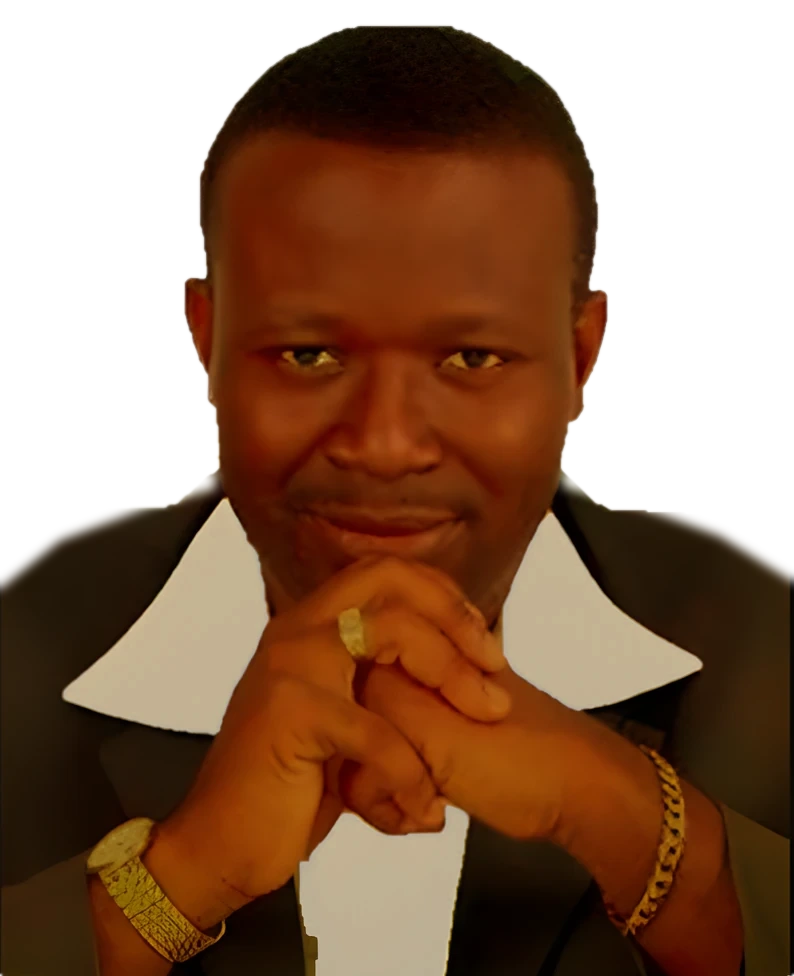
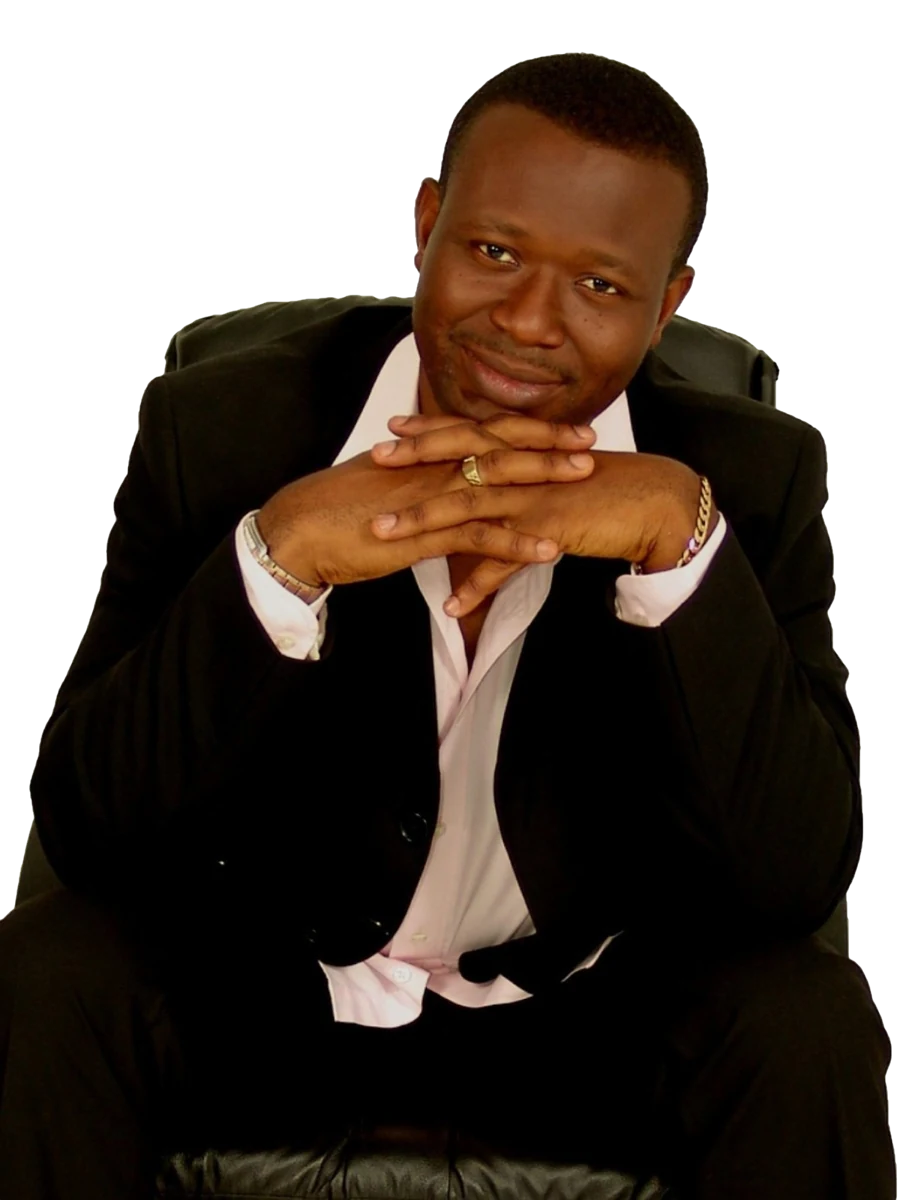
Story and welcome: new close-up portrait; '30+ years' wording
Claude-Session: https://claude.ai/code/session_01B9YkQRDeQEmEXedvwh4iPi

diff --git a/index.html b/index.html
@@ -26,7 +26,7 @@
 <body class="page-home">
 <a class="skip" href="#main">Skip to content</a>
 <div class="welcome" id="welcome" role="dialog" aria-modal="true" aria-label="Welcome">
-  <div class="welcome__photo"><img src="images/jide-portrait.webp" alt="Jide Arowolo" width="794" height="976"></div>
+  <div class="welcome__photo"><img src="images/jide-portrait.webp" alt="Jide Arowolo" width="900" height="1200"></div>
   <div class="welcome__inner">
     <svg viewBox="0 0 240 240" class="welcome__mark" aria-hidden="true" focusable="false"><defs><linearGradient id="gwel" x1="0" y1="0" x2="1" y2="1"><stop offset="0" stop-color="#f1dba0"/><stop offset=".55" stop-color="#c9a24b"/><stop offset="1" stop-color="#a8832f"/></linearGradient></defs><g class="logo-ring"><line x1="120.00" y1="34.00" x2="120.00" y2="20.50" stroke="#d6b45f" stroke-width="3.2" stroke-linecap="round"/><line x1="136.78" y1="35.65" x2="140.08" y2="19.06" stroke="#d6b45f" stroke-width="3.2" stroke-linecap="round"/><line x1="152.91" y1="40.55" x2="160.16" y2="23.06" stroke="#d6b45f" stroke-width="3.2" stroke-linecap="round"/><line x1="167.78" y1="48.49" x2="178.41" y2="32.58" stroke="#d6b45f" stroke-width="3.2" stroke-linecap="round"/><line x1="180.81" y1="59.19" x2="193.41" y2="46.59" stroke="#d6b45f" stroke-width="3.2" stroke-linecap="round"/><line x1="191.51" y1="72.22" x2="204.62" y2="63.46" stroke="#d6b45f" stroke-width="3.2" stroke-linecap="round"/><line x1="199.45" y1="87.09" x2="212.36" y2="81.74" stroke="#d6b45f" stroke-width="3.2" stroke-linecap="round"/><line x1="204.35" y1="103.22" x2="217.93" y2="100.52" stroke="#d6b45f" stroke-width="3.2" stroke-linecap="round"/><line x1="206.00" y1="120.00" x2="219.54" y2="120.00" stroke="#d6b45f" stroke-width="3.2" stroke-linecap="round"/><line x1="204.35" y1="136.78" x2="218.82" y2="139.66" stroke="#d6b45f" stroke-width="3.2" stroke-linecap="round"/><line x1="199.45" y1="152.91" x2="214.22" y2="159.03" stroke="#d6b45f" stroke-width="3.2" stroke-linecap="round"/><line x1="191.51" y1="167.78" x2="205.10" y2="176.86" stroke="#d6b45f" stroke-width="3.2" stroke-linecap="round"/><line x1="180.81" y1="180.81" x2="191.65" y2="191.65" stroke="#d6b45f" stroke-width="3.2" stroke-linecap="round"/><line x1="167.78" y1="191.51" x2="175.59" y2="203.20" stroke="#d6b45f" stroke-width="3.2" stroke-linecap="round"/><line x1="152.91" y1="199.45" x2="159.48" y2="215.32" stroke="#d6b45f" stroke-width="3.2" stroke-linecap="round"/><line x1="136.78" y1="204.35" x2="140.67" y2="223.92" stroke="#d6b45f" stroke-width="3.2" stroke-linecap="round"/><line x1="120.00" y1="206.00" x2="120.00" y2="227.38" stroke="#d6b45f" stroke-width="3.2" stroke-linecap="round"/><line x1="103.22" y1="204.35" x2="99.17" y2="224.73" stroke="#d6b45f" stroke-width="3.2" stroke-linecap="round"/><line x1="87.09" y1="199.45" x2="80.12" y2="216.27" stroke="#d6b45f" stroke-width="3.2" stroke-linecap="round"/><line x1="72.22" y1="191.51" x2="64.26" y2="203.42" stroke="#d6b45f" stroke-width="3.2" stroke-linecap="round"/><line x1="59.19" y1="180.81" x2="47.39" y2="192.61" stroke="#d6b45f" stroke-width="3.2" stroke-linecap="round"/><line x1="48.49" y1="167.78" x2="32.14" y2="178.71" stroke="#d6b45f" stroke-width="3.2" stroke-linecap="round"/><line x1="40.55" y1="152.91" x2="21.31" y2="160.88" stroke="#d6b45f" stroke-width="3.2" stroke-linecap="round"/><line x1="35.65" y1="136.78" x2="16.04" y2="140.68" stroke="#d6b45f" stroke-width="3.2" stroke-linecap="round"/><line x1="34.00" y1="120.00" x2="16.28" y2="120.00" stroke="#d6b45f" stroke-width="3.2" stroke-linecap="round"/><line x1="35.65" y1="103.22" x2="20.98" y2="100.30" stroke="#d6b45f" stroke-width="3.2" stroke-linecap="round"/><line x1="40.55" y1="87.09" x2="27.36" y2="81.63" stroke="#d6b45f" stroke-width="3.2" stroke-linecap="round"/><line x1="48.49" y1="72.22" x2="35.79" y2="63.73" stroke="#d6b45f" stroke-width="3.2" stroke-linecap="round"/><line x1="59.19" y1="59.19" x2="48.60" y2="48.60" stroke="#d6b45f" stroke-width="3.2" stroke-linecap="round"/><line x1="72.22" y1="48.49" x2="64.52" y2="36.97" stroke="#d6b45f" stroke-width="3.2" stroke-linecap="round"/><line x1="87.09" y1="40.55" x2="81.64" y2="27.39" stroke="#d6b45f" stroke-width="3.2" stroke-linecap="round"/><line x1="103.22" y1="35.65" x2="100.39" y2="21.43" stroke="#d6b45f" stroke-width="3.2" stroke-linecap="round"/><circle cx="120" cy="120" r="78" fill="none" stroke="#c9a24b" stroke-opacity=".55" stroke-width="1.2"/></g><path class="logo-ja" d="M107.63 74V76.03H97.23V134.32Q96.04 137.65 94.27 141.29Q92.5 144.93 89.98 148.07Q87.46 151.22 83.87 153.2Q80.28 155.17 75.44 155.17Q70.66 155.17 67.1 153.4Q63.54 151.64 61.56 148.75Q59.58 145.86 59.58 142.48Q59.58 139.83 60.68 137.91Q61.77 135.98 63.59 134.94Q65.41 133.9 67.54 133.9Q69.36 133.9 71.18 134.79Q73 135.67 74.22 137.44Q75.44 139.21 75.44 141.81Q75.44 144.3 74.22 146.02Q73 147.74 71.1 148.54Q69.2 149.35 67.07 149.24Q65.93 149.14 64.89 148.31Q64.42 147.94 64.11 147.53Q64.73 148.72 65.82 149.71Q67.44 151.22 69.59 152.1Q71.75 152.99 74.25 152.99Q78.2 152.99 80.2 150.83Q82.2 148.67 82.93 144.07Q83.66 139.47 83.66 132.24V76.03H70.14V74ZM144.8 72.49 171.63 149.97H179.69V152H146.15V149.97H155.87L148.7 127.72H122.75L114.95 149.97H125.97V152H103.04V149.97H112.56L139.91 72.49ZM148.02 125.69 136.22 89.13 123.42 125.69Z" fill="url(#gwel)"/></svg>
     <p class="welcome__greet">E kaabo &middot; Welcome</p>

diff --git a/story.html b/story.html
@@ -48,10 +48,10 @@
 <section class="section">
   <div class="wrap story">
     <figure class="story__photo" data-reveal>
-      <div class="cover cover--portrait" data-title="Jide Arowolo"><img src="images/jide-portrait.webp" alt="Portrait of Jide Arowolo" width="794" height="976" onerror="this.remove()"></div>
+      <div class="cover cover--portrait" data-title="Jide Arowolo"><img src="images/jide-portrait.webp" alt="Portrait of Jide Arowolo" width="900" height="1200" onerror="this.remove()"></div>
     </figure>
     <div class="story__text" data-reveal>
-      <p>Born in South Western Nigeria, Jide recognised his musicianship in his late teens. He taught himself, and has spent more than two decades in mainstage music, songwriting and public worship leading, gaining recognition especially in gospel music.</p>
+      <p>Born in South Western Nigeria, Jide recognised his musicianship in his late teens. He taught himself, and has spent 30+ years in mainstage music, songwriting and public worship leading, gaining recognition especially in gospel music.</p>
       <p>He is a highly prolific songwriter, with a large catalogue of original songs in ballad, pop, reggae, R&amp;B and contemporary afro-rhythms. One of them is the popular Ololufe.</p>
       <p>He has taught many musicians, some now well-known producers around the world, and has been technical adviser and producer to Christian bands and artistes. He has led seminars and training on praise and worship and sound management in universities, churches and conferences across the world.</p>
       <ul class="facts" aria-label="Career highlights">

diff --git a/handoff/build_prototype.py b/handoff/build_prototype.py
@@ -111,7 +111,7 @@ MOBILEBAR = '''<div class="bookbar" id="bookbar">
 '''
 
 WELCOME = '''<div class="welcome" id="welcome" role="dialog" aria-modal="true" aria-label="Welcome">
-  <div class="welcome__photo"><img src="images/jide-portrait.webp" alt="Jide Arowolo" width="794" height="976"></div>
+  <div class="welcome__photo"><img src="images/jide-portrait.webp" alt="Jide Arowolo" width="900" height="1200"></div>
   <div class="welcome__inner">
     @@MARK@@
     <p class="welcome__greet">E kaabo &middot; Welcome</p>
@@ -301,10 +301,10 @@ story = head('Story', 'Self-taught, and always in the room where the music happe
 <section class="section">
   <div class="wrap story">
     <figure class="story__photo" data-reveal>
-      <div class="cover cover--portrait" data-title="Jide Arowolo"><img src="images/jide-portrait.webp" alt="Portrait of Jide Arowolo" width="794" height="976" onerror="this.remove()"></div>
+      <div class="cover cover--portrait" data-title="Jide Arowolo"><img src="images/jide-portrait.webp" alt="Portrait of Jide Arowolo" width="900" height="1200" onerror="this.remove()"></div>
     </figure>
     <div class="story__text" data-reveal>
-      <p>Born in South Western Nigeria, Jide recognised his musicianship in his late teens. He taught himself, and has spent more than two decades in mainstage music, songwriting and public worship leading, gaining recognition especially in gospel music.</p>
+      <p>Born in South Western Nigeria, Jide recognised his musicianship in his late teens. He taught himself, and has spent 30+ years in mainstage music, songwriting and public worship leading, gaining recognition especially in gospel music.</p>
       <p>He is a highly prolific songwriter, with a large catalogue of original songs in ballad, pop, reggae, R&amp;B and contemporary afro-rhythms. One of them is the popular Ololufe.</p>
       <p>He has taught many musicians, some now well-known producers around the world, and has been technical adviser and producer to Christian bands and artistes. He has led seminars and training on praise and worship and sound management in universities, churches and conferences across the world.</p>
       <ul class="facts" aria-label="Career highlights">

diff --git a/handoff/BRIEF.md b/handoff/BRIEF.md
@@ -54,7 +54,7 @@ Copy the tokens from `styles.css` (`:root`). Summary:
 
 **Music.** Page head with the drum photo. Sticky tab bar jumps to each album. Each album panel: cover, title and year, description, gold "Listen on YouTube" button, track list in two columns on wide screens. Track buttons play an audio sample if one exists. If none, the player says "Sample not added yet. Listen on YouTube." The player is a fixed bar at the bottom with play/pause, title, album, mini sound-wave and close.
 
-**Story.** Violin photo header. Two-column intro: portrait (a transparent cut-out, `images/jide-portrait.webp`, sitting on a gold-to-umber radial glow; the original with its white background is kept in `images/source/`), biography text and three highlight figures. Then "Stages around the world": nine country cards (Nigeria, The Gambia, Sierra Leone, United Kingdom, Romania, Hungary, Germany, Canada, United States), each with a short place or detail line. Then "The story so far": a dated timeline in three eras (Nigeria: the early years, 1984 to 1998; The Gambia and the wider world, 1995 to 2005; London and abroad, 2006 to 2014), about 21 entries from Jide's music CV. Then eight "Beyond the stage" cards (the first two, Roots Festival and United Nations, carry a CD cover image), (Roots Festival, United Nations, commissioned recordings, producer credits, teaching and training, Universal Recording Studio, hotel stage, concerts and giving back). Then "From the archive": five scans of two CDs in `images/archive/` (Roots theme song front, back and dedication; International Year of Volunteers front and track listing), in two captioned groups, each opening in a dialog lightbox on click (plain links to the image without JavaScript). Then a call to action. All of this content is in `build_prototype.py` (`ERAS`, `PLACES`, `BEYOND`) and should become admin-managed.
+**Story.** Violin photo header. Two-column intro: portrait (a transparent cut-out of the close-up in the black suit, `images/jide-portrait.webp`, sitting on a gold-to-umber radial glow; the original with its white background is kept in `images/source/`), biography text and three highlight figures. Then "Stages around the world": nine country cards (Nigeria, The Gambia, Sierra Leone, United Kingdom, Romania, Hungary, Germany, Canada, United States), each with a short place or detail line. Then "The story so far": a dated timeline in three eras (Nigeria: the early years, 1984 to 1998; The Gambia and the wider world, 1995 to 2005; London and abroad, 2006 to 2014), about 21 entries from Jide's music CV. Then eight "Beyond the stage" cards (the first two, Roots Festival and United Nations, carry a CD cover image), (Roots Festival, United Nations, commissioned recordings, producer credits, teaching and training, Universal Recording Studio, hotel stage, concerts and giving back). Then "From the archive": five scans of two CDs in `images/archive/` (Roots theme song front, back and dedication; International Year of Volunteers front and track listing), in two captioned groups, each opening in a dialog lightbox on click (plain links to the image without JavaScript). Then a call to action. All of this content is in `build_prototype.py` (`ERAS`, `PLACES`, `BEYOND`) and should become admin-managed.
 
 **Watch.** Sax photo header. YouTube embed of the channel's uploads or album playlists (see open items), then a button linking to the channel. Gallery of three photos.
 
